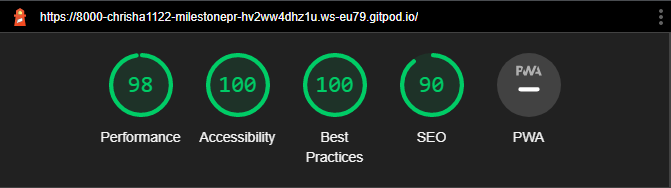
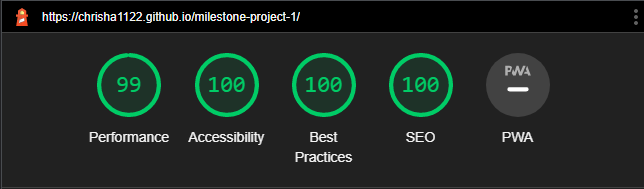
Final readme

diff --git a/README.md b/README.md
@@ -232,21 +232,19 @@ CSS Validator using [W3C Validation](https://jigsaw.w3.org/css-validator/) confi
 
 ### Bugs
 
-* CSS slowing down loading time - Moved Javascript link to bottom of page for better loading.
-* Two circle certificate images not loading after testing - Swapped for two new images.
-* Google maps not loading up on some devices - Taken out for now to be added again in a later update.
+* CSS slowing down loading time:
+FIX - Moved Javascript link to bottom of page for faster initial loading.
+
+* Two circle certificate images not loading after testing live site:
+FIX - Swapped for two new images and no problems.
+
+* Google maps not loading up on some devices: 
+FIX - Taken out and much improved performance in lighthouse testing.
 
 ### Future Updates
 
-* Would like to add a gallery page to showcase some of the companies work.
-* Would like to redo the Google map and add back to site.
-
-      <iframe
-        src="https://www.google.com/maps/embed?pb=!1m18!1m12!1m3!1d2348.5731187042197!2d-1.0814300846587288!3d53.9393274378303!2m3!1f0!2f0!3f0!3m2!1i1024!2i768!4f13.1!3m3!1m2!1s0x4879317c622b9dbf%3A0x7d2e1cb5d266a4a1!2sMW%20Electrical%20Services%20Ltd!5e0!3m2!1sen!2suk!4v1668807924449!5m2!1sen!2suk"
-        width="600" height="450" style="border:0;" class="map" allowfullscreen="" loading="lazy" title="Location Map"
-        referrerpolicy="no-referrer-when-downgrade">
-      </iframe>
-    </div> 
+* Would like to add a Gallery page to showcase some of the companies work.
+* Would like to add the Google map back to site. 
 
 ## Installation
 
